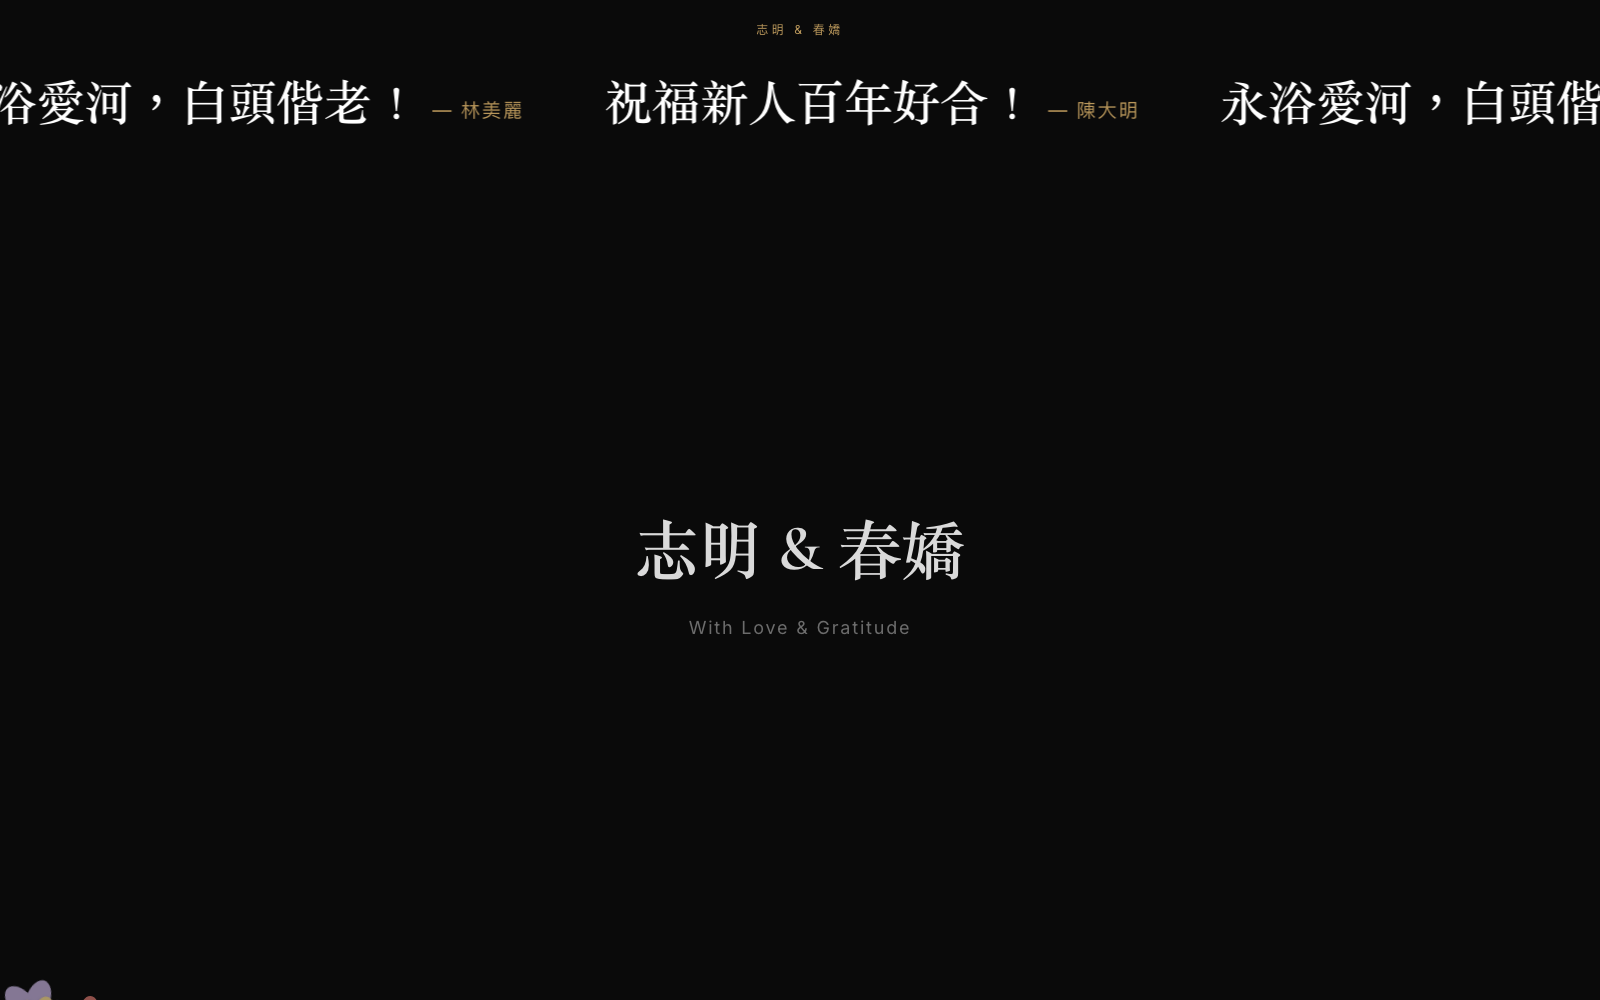
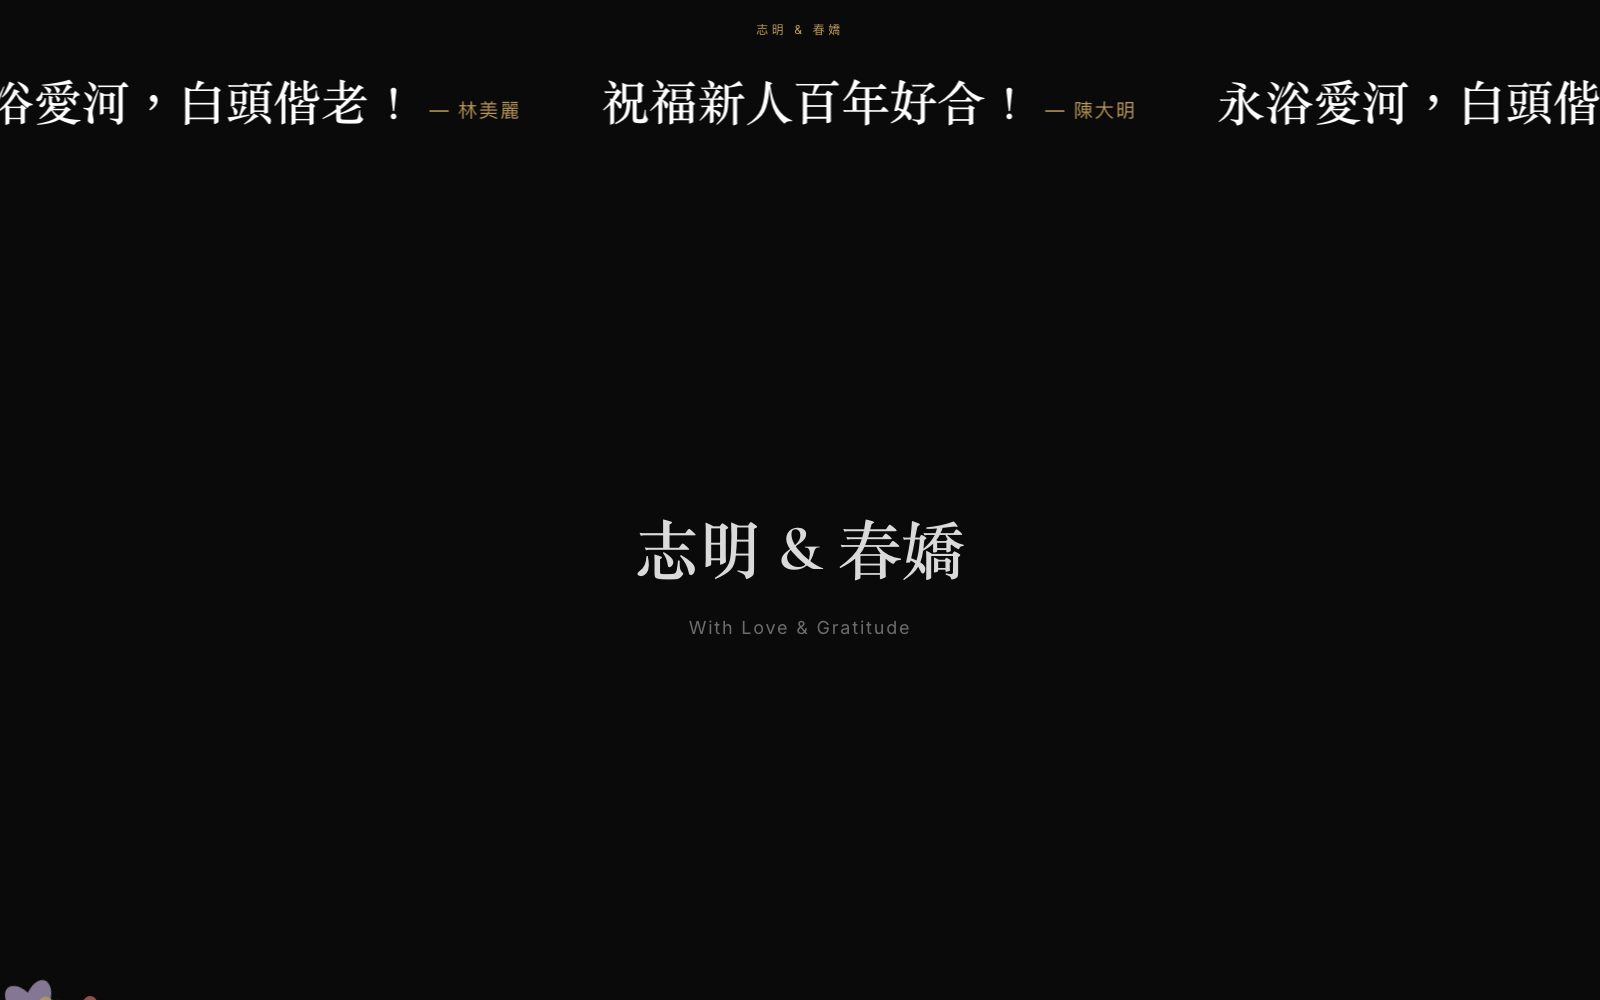
feat(scripts): add desktop web variant of thankyou demo GIF

diff --git a/README.md b/README.md
@@ -30,9 +30,11 @@
 
 ![祝福審核與投影牆演示](docs/demo/projection.gif)
 
-**婚後電子謝卡**——賓客點開專屬信封，謝卡自信封口升起展開：
+**婚後電子謝卡**——賓客點開專屬信封，謝卡自信封口升起展開，行動版與桌面版皆支援：
 
-<img src="docs/demo/thankyou.gif" width="390" alt="謝卡公開頁演示：點信封開封、謝卡展開">
+<img src="docs/demo/thankyou.gif" width="390" alt="謝卡公開頁演示（行動版）：點信封開封、謝卡展開">
+
+![謝卡公開頁演示（桌面版）](docs/demo/thankyou-web.gif)
 
 ## 產品導覽
 
